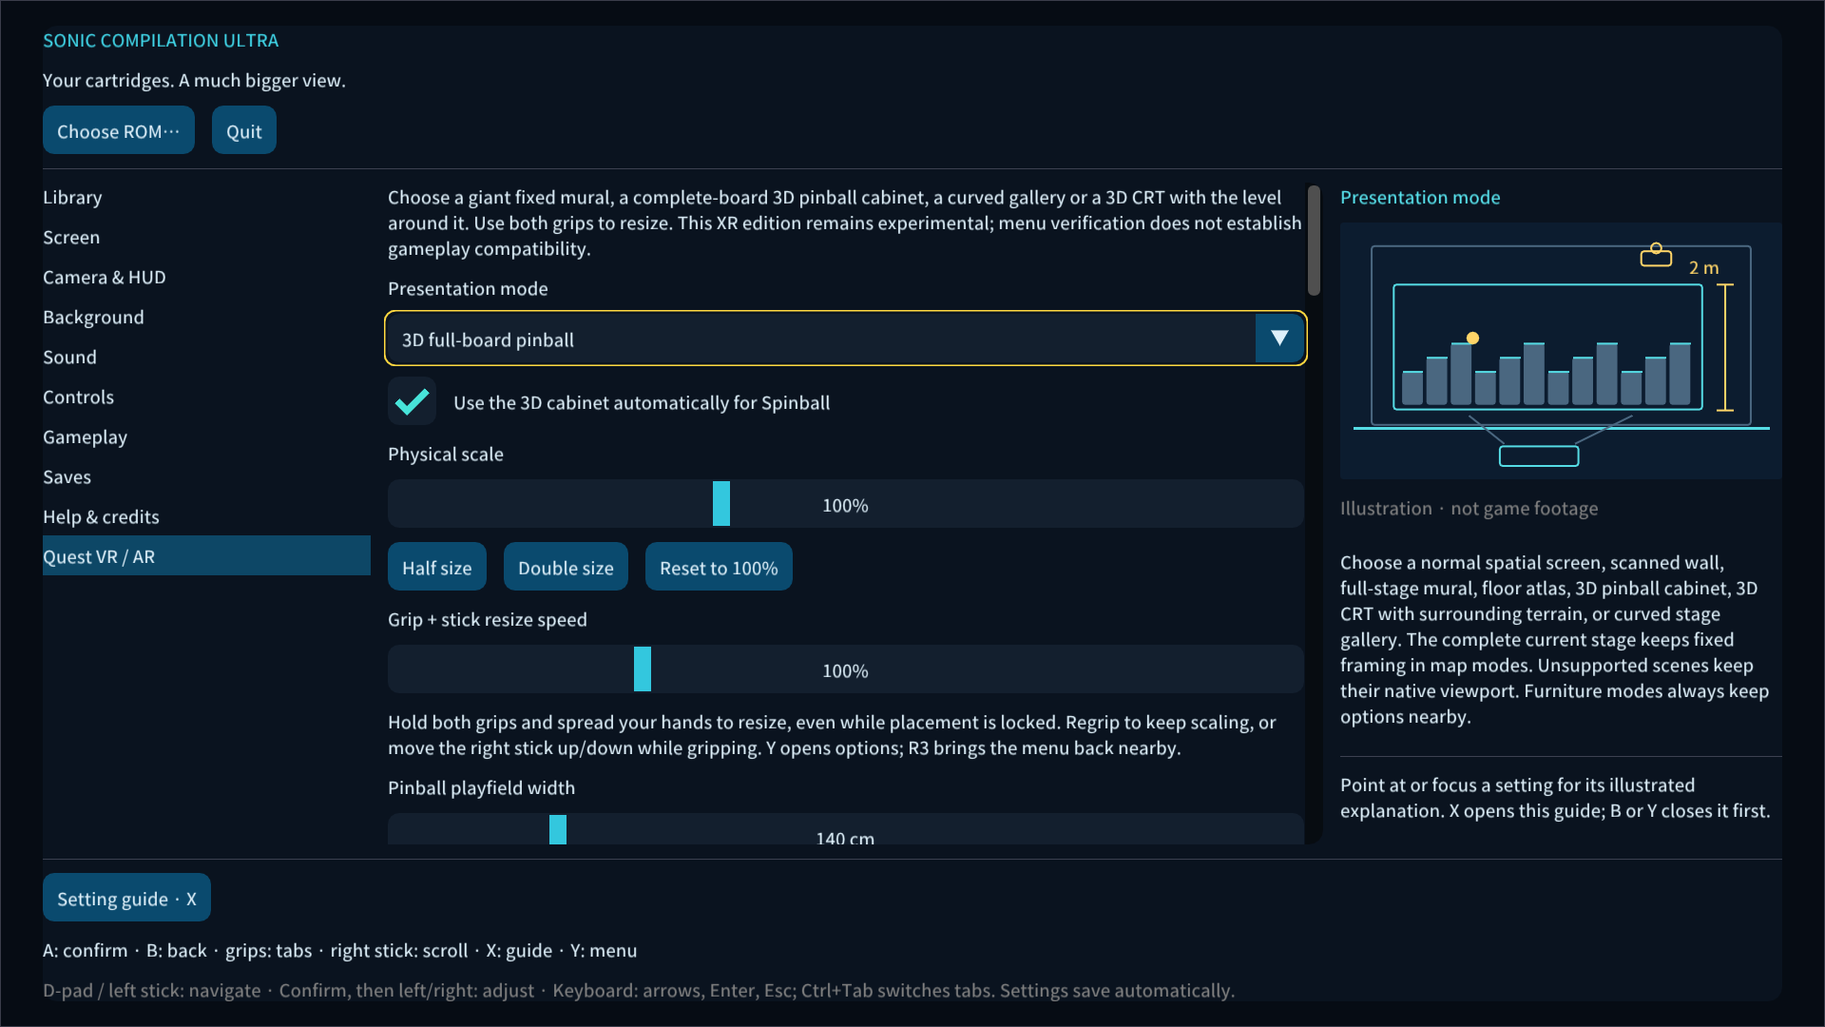
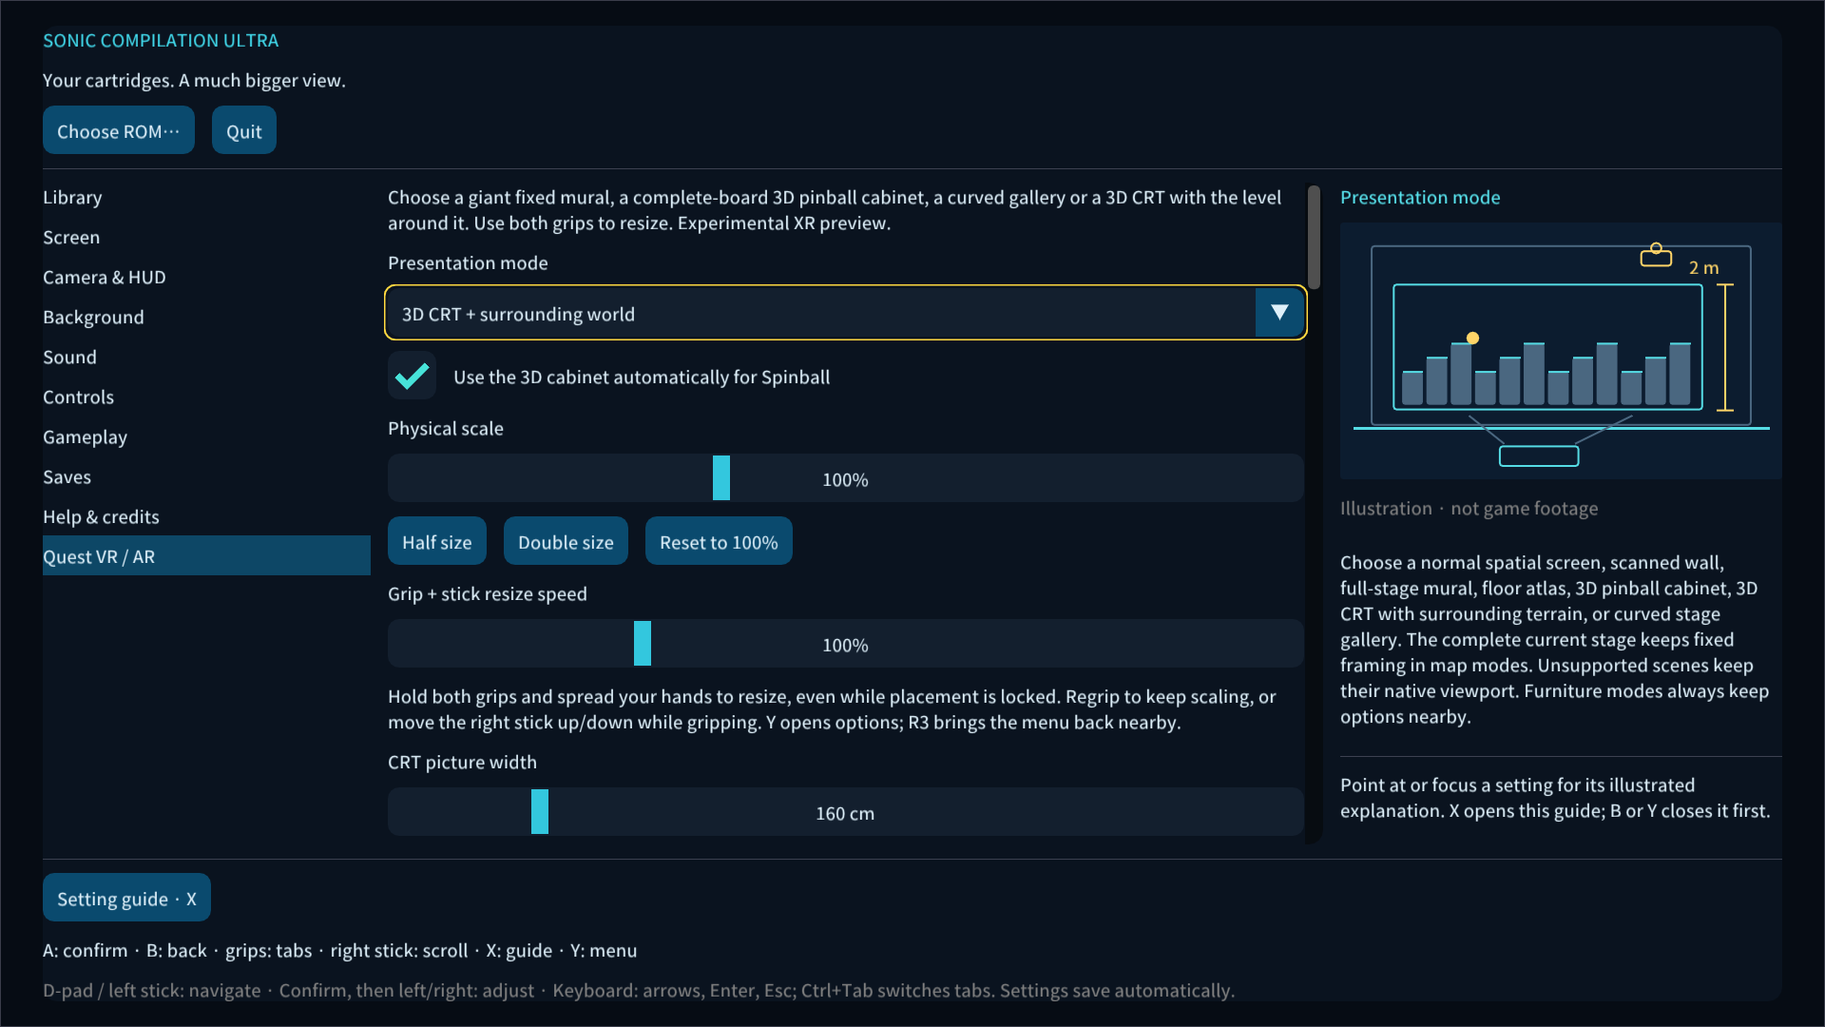
Extend VR backdrop and keep mode controls focused

diff --git a/src/xr_stage.cpp b/src/xr_stage.cpp
@@ -264,6 +264,10 @@ void main(){
    c+=vec3(.015,.025,.04)*pow(1.0-facing,3.0)*glassStrength;
   }
   if(kind==3)c*=surroundBrightness;
+ }else if(kind==6){
+  vec2 uv=vec2(fract(texcoord.x*4.0),texcoord.y);
+  float fade=smoothstep(0.0,.28,uv.y)*smoothstep(0.0,.28,1.0-uv.y);
+  c=mix(vec3(.008,.013,.025),displayColor(uv)*surroundBrightness,fade);
  }else if(kind==4){
   float fresnel=pow(1.0-facing,4.0);c=vec3(.2,.47,.65);a=glassStrength*(.015+.14*fresnel);
  }else if(kind==5){
@@ -335,11 +339,12 @@ struct XrStageRenderer::Impl {
     std::array<Eye, 2> eyes{};
     std::array<XrCompositionLayerProjectionView, 2> projectionViews{};
     XrCompositionLayerProjection layer{XR_TYPE_COMPOSITION_LAYER_PROJECTION};
-    GLuint program = 0, framebuffer = 0, nativeTexture = 0, demoTexture = 0;
+    GLuint program = 0, framebuffer = 0, nativeTexture = 0, demoTexture = 0, backdropTexture = 0;
     int nativeW = 0, nativeH = 0;
-    uint64_t nativeVersion = ~uint64_t(0), frameCount = 0, meshHash = 0;
+    uint64_t nativeVersion = ~uint64_t(0), backdropVersion = ~uint64_t(0), frameCount = 0,
+             meshHash = 0;
     bool srgb = false;
-    Mesh furniture, screen, glass, plain;
+    Mesh furniture, screen, glass, plain, surroundings;
     Matrix screenLocal = Matrix::identity(), glassLocal = Matrix::identity();
     int vp = -1, model = -1, kind = -1, eyePosition = -1;
     void initialise(XrInstance instance, XrSystemId system, XrSession xrSession) {
@@ -416,6 +421,22 @@ struct XrStageRenderer::Impl {
         quad(q, Matrix::identity(), {-.5f, -.5f, 0}, {.5f, -.5f, 0}, {.5f, .5f, 0}, {-.5f, .5f, 0},
              {0, 0, 1}, white);
         plain.upload(q);
+        Vertices panorama;
+        for (int i = 0; i < 64; ++i) {
+            float u = i / 64.f, v = (i + 1) / 64.f;
+            auto pt = [](float t, float y) {
+                return V3{std::sin(t * 2 * pi), y, std::cos(t * 2 * pi)};
+            };
+            size_t start = panorama.size();
+            quad(panorama, Matrix::identity(), pt(u, -1), pt(v, -1), pt(v, 1), pt(u, 1), {0, 0, 1},
+                 white);
+            const float coords[6][2]{{u, 1}, {v, 1}, {v, 0}, {u, 1}, {v, 0}, {u, 0}};
+            for (int j = 0; j < 6; ++j) {
+                panorama[start + j].u = coords[j][0];
+                panorama[start + j].v = coords[j][1];
+            }
+        }
+        surroundings.upload(panorama);
         std::vector<uint32_t> demo(512 * 512);
         for (int y = 0; y < 512; ++y)
             for (int x = 0; x < 512; ++x) {
@@ -471,10 +492,30 @@ struct XrStageRenderer::Impl {
         }
         return nativeTexture;
     }
+    GLuint backdrop(const XrStageContent &c) {
+        if (!c.loaded || !c.backdrop)
+            return demoTexture;
+        if (!backdropTexture)
+            glGenTextures(1, &backdropTexture);
+        glBindTexture(GL_TEXTURE_2D, backdropTexture);
+        if (backdropVersion != c.version) {
+            std::vector<uint32_t> rgba(c.backdrop->size());
+            for (size_t i = 0; i < rgba.size(); ++i) {
+                uint32_t p = (*c.backdrop)[i];
+                rgba[i] = (p & 0xff00ff00) | ((p >> 16) & 255) | ((p & 255) << 16);
+            }
+            glTexImage2D(GL_TEXTURE_2D, 0, GL_RGBA8, 320, 224, 0, GL_RGBA, GL_UNSIGNED_BYTE,
+                         rgba.data());
+            textureParameters();
+            backdropVersion = c.version;
+        }
+        return backdropTexture;
+    }
     void geometry(const Settings &s, int mode, float ratio, int nw, int nh) {
         uint64_t hash = 1469598103934665603ull;
-        for (int v : {mode, int(ratio * 10000), nw, nh, s.questCabinetWidth, s.questCabinetHeight,
-                      s.questCabinetTilt, s.questTvWidth, s.questCrtCurve, s.questCurve}) {
+        for (int v :
+             {mode, int(ratio * 10000), nw, nh, s.questCabinetWidth, s.questCabinetHeight,
+              s.questCabinetTilt, s.questTvWidth, s.questCrtCurve, s.questCurve, int(s.help)}) {
             hash ^= uint32_t(v);
             hash *= 1099511628211ull;
         }
@@ -590,6 +631,15 @@ struct XrStageRenderer::Impl {
             quad(p, Matrix::identity(), {-.5f, -.5f, 0}, {.5f, -.5f, 0}, {.5f, .5f, 0},
                  {-.5f, .5f, 0}, {0, 0, 1}, white);
         }
+        if (mode == 6 && s.help) {
+            float w = s.questWallHeight * .01f * ratio, angle = s.questCurve * pi / 180,
+                  radius = w / angle;
+            XrPosef badge{{0, -std::sin(angle / 4), 0, std::cos(angle / 4)},
+                          {std::sin(angle / 2) * radius, .06f, radius * (1 - std::cos(angle / 2))}};
+            auto m = poseMatrix(badge);
+            box(f, {-.24f, .055f, .006f}, {.56f, .13f, .01f}, ink, .8f, m);
+            legend(f, m, {-.46f, .022f, .013f}, .009f, "Y MENU");
+        }
         furniture.upload(f);
         screen.upload(p);
         glass.upload(g);
@@ -642,6 +692,8 @@ struct XrStageRenderer::Impl {
         glUniform1i(glGetUniformLocation(program, "srgbTarget"), srgb);
         glUniform1i(glGetUniformLocation(program, "flipImage"), s.questFlip);
         GLuint nativeImage = native(content), expanded = demoTexture;
+        GLuint backdropImage =
+            !ar && mode == 5 && s.questWorldBackdrop ? backdrop(content) : demoTexture;
         bool bound = false;
         if (content.expanded) {
             float w = 0, h = 0;
@@ -682,6 +734,14 @@ struct XrStageRenderer::Impl {
             glUniformMatrix4fv(vp, 1, GL_FALSE, vpMatrix.v);
             glUniform3f(eyePosition, views[i].pose.position.x, views[i].pose.position.y,
                         views[i].pose.position.z);
+            if (!ar && mode == 5 && s.questWorldBackdrop && content.loaded) {
+                glDepthMask(GL_FALSE);
+                XrPosef backdropPose{origin.orientation, views[i].pose.position};
+                draw(surroundings,
+                     product(poseMatrix(backdropPose), placement({0, 0, 0}, {500, 300, 500})), 6,
+                     backdropImage);
+                glDepthMask(GL_TRUE);
+            }
             if (!ar && s.questEnvironment) {
                 auto ground =
                     product(poseMatrix(origin), placement({0, -.01f, 0}, {1000, 1000, 1}, -pi / 2));
@@ -776,6 +836,7 @@ struct XrStageRenderer::Impl {
         screen.clear();
         glass.clear();
         plain.clear();
+        surroundings.clear();
         if (program)
             glDeleteProgram(program);
         if (framebuffer)
@@ -784,6 +845,8 @@ struct XrStageRenderer::Impl {
             glDeleteTextures(1, &nativeTexture);
         if (demoTexture)
             glDeleteTextures(1, &demoTexture);
+        if (backdropTexture)
+            glDeleteTextures(1, &backdropTexture);
         for (auto &e : eyes) {
             if (e.depth)
                 glDeleteRenderbuffers(1, &e.depth);

diff --git a/src/setting_help.cpp b/src/setting_help.cpp
@@ -9,6 +9,19 @@ namespace scu {
         }                                                                                          \
     }
 static const SettingHelp entries[] = {
+    H("questworldbackdrop", Background,
+      "Surround the VR CRT with a distant, repeated panorama made from the game's own backdrop. "
+      "Your background style, blur and brightness choices still apply. The expanded stage stays "
+      "aligned with the TV in front of this scenery. AR keeps your real room visible instead.",
+      "Entoure le CRT en VR d’un panorama lointain répété, issu du décor du jeu. Les choix de "
+      "fond, flou et luminosité s’appliquent toujours. Le niveau étendu reste aligné sur le "
+      "téléviseur devant ce décor. En AR, ta pièce réelle reste visible.",
+      "Rodea el CRT en RV con un panorama lejano repetido del fondo del juego. Se mantienen "
+      "estilo, desenfoque y brillo. El nivel ampliado sigue alineado con el TV delante del fondo. "
+      "En RA se conserva tu habitación real.",
+      "ゲームの背景を繰り返した遠景でVRのブラウン管を囲みます。背景の種類、ぼかし、明るさの設定も反"
+      "映します。拡張ステージは遠景の手前でテレビと位置を合わせます。ARでは実際の部屋を表示します"
+      "。"),
     H("desktoppresentation", Crt,
       "Choose the ordinary canvas, a whole-board pinball cabinet frame, or a CRT with the expanded "
       "level behind it. Desktop frames use portable 2D geometry on SDL renderers; the Quest "
@@ -143,10 +156,21 @@ static const SettingHelp entries[] = {
       "立体モードで暗い空間か静かな手続き型スタジオの床を選びます。パススルーはスタジオを実際の部屋"
       "に置き換えます。アプリはカメラ映像を取得・録画しません。"),
     H("questmode", Wall,
-      "Choose a normal spatial screen, scanned wall, full-stage mural, floor atlas, 3D pinball cabinet, 3D CRT with surrounding terrain, or curved stage gallery. The complete current stage keeps fixed framing in map modes. Unsupported scenes keep their native viewport. Furniture modes always keep options nearby.",
-      "Choisis écran spatial, mur scanné, mural complet, atlas au sol, flipper 3D, CRT 3D avec terrain autour ou galerie incurvée. Le niveau actuel entier reste fixe dans les modes carte. Les scènes non compatibles gardent leur vue native. Le mobilier garde toujours les options à proximité.",
-      "Elige pantalla espacial, pared capturada, mural completo, atlas de suelo, pinball 3D, CRT 3D con terreno alrededor o galería curva. El nivel completo mantiene encuadre fijo en modos mapa. Las escenas no compatibles usan su vista nativa. Los muebles mantienen las opciones cerca.",
-      "空間スクリーン、スキャンした壁、全ステージ壁画、床の地図、3Dピンボール筐体、周囲に地形を表示する3Dブラウン管、湾曲ギャラリーを選びます。地図モードは全ステージを固定表示。未対応場面は元の画面を使い、家具モードの設定は常に近くに表示します。"),
+      "Choose a normal spatial screen, scanned wall, full-stage mural, floor atlas, 3D pinball "
+      "cabinet, 3D CRT with surrounding terrain, or curved stage gallery. The complete current "
+      "stage keeps fixed framing in map modes. Unsupported scenes keep their native viewport. "
+      "Furniture modes always keep options nearby.",
+      "Choisis écran spatial, mur scanné, mural complet, atlas au sol, flipper 3D, CRT 3D avec "
+      "terrain autour ou galerie incurvée. Le niveau actuel entier reste fixe dans les modes "
+      "carte. Les scènes non compatibles gardent leur vue native. Le mobilier garde toujours les "
+      "options à proximité.",
+      "Elige pantalla espacial, pared capturada, mural completo, atlas de suelo, pinball 3D, CRT "
+      "3D con terreno alrededor o galería curva. El nivel completo mantiene encuadre fijo en modos "
+      "mapa. Las escenas no compatibles usan su vista nativa. Los muebles mantienen las opciones "
+      "cerca.",
+      "空間スクリーン、スキャンした壁、全ステージ壁画、床の地図、3Dピンボール筐体、周囲に地形を表示"
+      "する3Dブラウン管、湾曲ギャラリーを選びます。地図モードは全ステージを固定表示。未対応場面は元"
+      "の画面を使い、家具モードの設定は常に近くに表示します。"),
     H("questwallheight", Wall,
       "Default 200 cm: the mural rises two metres from the floor. Width follows the stage aspect "
       "ratio. Wall-fit mode caps height to the available wall. On a floor atlas this sets its "

diff --git a/src/localization.cpp b/src/localization.cpp
@@ -13,6 +13,9 @@ struct Text {
         }                                                                                          \
     }
 static const Text texts[] = {
+    T("questworldbackdrop", "Wrap the game's backdrop around the VR room",
+      "Étendre le décor sur 360° en VR", "Fondo del juego a 360° en RV",
+      "VRの周囲360度に背景を表示"),
     T("desktoppresentation", "Desktop frame", "Cadre sur PC", "Marco de escritorio",
       "デスクトップのフレーム"),
     T("desktopplain", "Full canvas", "Canevas entier", "Lienzo completo", "キャンバス全体"),
@@ -274,16 +277,13 @@ static const Text texts[] = {
     T("questtrigger", "left trigger", "gâchette gauche", "gatillo izquierdo", "左トリガー"),
     T("questintro",
       "Choose a giant fixed mural, a complete-board 3D pinball cabinet, a curved gallery or a 3D "
-      "CRT with the level around it. Use both grips to resize. This XR edition remains "
-      "experimental; menu verification does not establish gameplay compatibility.",
+      "CRT with the level around it. Use both grips to resize. Experimental XR preview.",
       "Choisis un mural géant fixe, un flipper 3D avec plateau entier, une galerie incurvée ou un "
-      "CRT 3D entouré du niveau. Les deux prises redimensionnent. Cette édition XR reste "
-      "expérimentale ; la vérification du menu ne valide pas le gameplay.",
+      "CRT 3D entouré du niveau. Les deux prises redimensionnent. Aperçu XR expérimental.",
       "Elige mural gigante fijo, pinball 3D completo, galería curva o CRT 3D rodeado del nivel. "
-      "Ambos agarres cambian el tamaño. Esta edición XR sigue siendo experimental; comprobar menús "
-      "no valida la jugabilidad.",
+      "Ambos agarres cambian el tamaño. Vista previa XR experimental.",
       "固定された巨大壁画、全盤面3Dピンボール、湾曲ギャラリー、ステージに囲まれた3Dブラウン管を選べ"
-      "ます。両グリップで拡縮。このXR版は実験版で、メニュー確認はゲーム動作の検証ではありません。"),
+      "ます。両グリップで拡縮。実験的なXRプレビュー版です。"),
     T("questar", "Passthrough AR · see the room", "AR avec passthrough · voir la pièce",
       "RA con passthrough · ver la habitación", "パススルーAR · 部屋を表示"),
     T("questarunavailable", "Passthrough is unavailable in this session. VR remains available.",

diff --git a/src/quest.cpp b/src/quest.cpp
@@ -1323,10 +1323,13 @@ struct QuestPresentation::Impl {
                                    ? gameScreen.canvas
                                    : nullptr;
             content.native = &app.core.native;
+            content.backdrop = &app.core.world.backdrop;
             content.nativeWidth = app.core.nativeW;
             content.nativeHeight = app.core.nativeH;
             content.version = app.core.imageVersion;
             content.scene = app.core.world.inspect(app.core.snapshot, app.core.game);
+            if (mode() == 4 && !content.scene.ready)
+                content.expanded = nullptr;
             auto &canvas = app.core.world.canvas;
             content.left = canvas.left;
             content.top = canvas.top;
@@ -1605,7 +1608,7 @@ void QuestPresentation::options() {
     }
     changed |= a.slider("questresizespeed", s.questResizeSpeed, 25, 300, "%d%%");
     ImGui::TextWrapped("%s", tr("questresizehint", a.language));
-    if (impl->mode() == 4 || s.questSpinballAuto) {
+    if (impl->mode() == 4) {
         changed |= a.slider("questcabinetwidth", s.questCabinetWidth, 40, 600, "%d cm");
         changed |= a.slider("questcabinetheight", s.questCabinetHeight, 30, 160, "%d cm");
         changed |= a.slider("questcabinettilt", s.questCabinetTilt, 0, 40, "%d°");
@@ -1621,6 +1624,7 @@ void QuestPresentation::options() {
         changed |= a.slider("questcrtstrength", s.questCrtStrength, 0, 100, "%d%%");
         changed |= a.slider("questcrtcurve", s.questCrtCurve, 0, 100, "%d%%");
         changed |= a.tick("questsurround", s.questSurround);
+        changed |= a.tick("questworldbackdrop", s.questWorldBackdrop);
         changed |= a.slider("questsurroundbrightness", s.questSurroundBrightness, 0, 100, "%d%%");
     }
     if (impl->mode() == 6)

diff --git a/src/settings.cpp b/src/settings.cpp
@@ -41,7 +41,7 @@ namespace scu {
                                                                         X(rewindButton, 0, 2)      \
                                                                             X(rewindMemory, 0, 2)
 #define BOOL_FIELDS(X)                                                                             \
-    X(desktopSurround) X(desktopCrtMask) X(questAutoWall)                                           \
+    X(questWorldBackdrop) X(desktopSurround) X(desktopCrtMask) X(questAutoWall)                     \
     X(questSpinballAuto) X(questSurround) X(questWallLocked) X(questAdaptive) X(questPauseLost)    \
         X(questCompanion) X(questPassthrough) X(questTouch) X(questFlip) X(fullscreen) X(span)     \
             X(vsync) X(parallax) X(locator) X(minimap) X(help) X(spindash) X(noSpriteLimit)        \

diff --git a/src/settings.h b/src/settings.h
@@ -26,7 +26,7 @@ struct Settings {
     int desktopPresentation = 0, desktopFrameScale = 100, desktopCrtStrength = 40,
         desktopCabinetAngle = 35;
     bool desktopSurround = true, desktopCrtMask = true;
-    bool questSpinballAuto = true, questSurround = true;
+    bool questSpinballAuto = true, questSurround = true, questWorldBackdrop = true;
     bool questAutoWall = true, questWallLocked = true, questAdaptive = true;
     bool questPauseLost = true, questCompanion = true;
     // Per-frame projection bounds, deliberately excluded from saved preferences.

diff --git a/src/xr_stage.h b/src/xr_stage.h
@@ -11,6 +11,7 @@ namespace scu {
 struct XrStageContent {
     SDL_Texture *expanded = nullptr;
     const std::vector<uint32_t> *native = nullptr;
+    const std::array<uint32_t, 320 * 224> *backdrop = nullptr;
     int nativeWidth = 320, nativeHeight = 224;
     uint64_t version = 0;
     bool loaded = false;

diff --git a/docs/TEST_REPORT.md b/docs/TEST_REPORT.md
@@ -4,7 +4,7 @@ This report separates successful checks from coverage that has not been measured
 
 ## 0.6 XR preview — physical frontend checks, no gameplay
 
-- On a USB-connected Quest 3, the library/options and original-pattern pinball/CRT/curved previews reach native SDL/OpenXR startup and submit stereo projection plus an independent menu quad. Actual eye-buffer and options captures were visually inspected. The earlier partial-UI cleanup crash, window-placement failure and black menu transfer were reproduced from evidence and repaired.
+- On a USB-connected Quest 3, the library/options and original-pattern pinball/CRT/curved previews reach native SDL/OpenXR startup and submit stereo projection plus an independent menu quad. Actual eye-buffer and options captures were visually inspected. The earlier partial-UI cleanup crash, window-placement failure and black menu transfer were identified in logs/captures and repaired.
 - Menu verification locks `Core::load`. Diagnostic frames record `coreLoaded=0` and `coreFrame=0`; cartridge file checks report **12 entries, 12 readable, cartridgeExecution=0**. Those checks decode/check files, not game instructions. No ROM was launched or played.
 - The runtime reports a **120 Hz display target** with maximum refresh selected. Short empty-preview observations include startup/capture stalls; they do not establish sustained 120 FPS, gameplay performance, thermal behavior or battery life.
 - Android compilation, lint and static signature/dependency/manifest/data-boundary inspection apply to both ordinary and personal APKs. The ordinary APK/source package exclude ROMs and private data. The local personal APK is not uploaded.

diff --git a/docs/QUEST.md b/docs/QUEST.md
@@ -49,7 +49,7 @@ Spinball uses its existing four-board cartridge terrain decoder; the 3D cabinet 
 
 **Placement locking does not prevent resizing.** The physical scale slider spans 5–20,000%, with half/double/reset buttons. Physical size is independent of texture allocation. Wall-fit mode remains bounded by its wall; use Mural for unrestricted expansion. Options keep their own readable size, and R3 brings them near you. The Meta button keeps its system function.
 
-Pinball width, front height, slope and glass reflections are adjustable. CRT choices include clean, living-room and arcade presets, effect strength, phosphor mask, real tube curvature, picture width, surrounding terrain and its brightness. Choose a quiet studio floor or dark void in VR, or passthrough AR for your room. Cinema, tabletop, head-follow, cabinet and curved-gallery presets are available.
+Pinball width, front height, slope and glass reflections are adjustable. CRT choices include clean, living-room and arcade presets, effect strength, phosphor mask, real tube curvature, picture width, surrounding terrain and its brightness. An optional 360° panorama repeats the game's own backdrop around the VR room; background style/blur settings still apply. Choose a quiet studio floor or dark void in VR, or passthrough AR for your room. Cinema, tabletop, head-follow, cabinet and curved-gallery presets are available.
 
 A Bluetooth gamepad can use the existing controller menus. Disable **Use Quest Touch controls** to assign that pad to player one; menu pointing and Y access remain available. Physical controller behavior still needs user validation.
 

diff --git a/CHANGELOG.md b/CHANGELOG.md
@@ -3,7 +3,7 @@
 ## 0.6.0 XR preview — Stereo furniture and startup repair
 
 - Repair partial UI shutdown, use app-owned internal storage with external-data migration, identify the app as immersive and preserve SDL graphics state around the full OpenXR frame sequence.
-- Add stereo 3D pinball cabinets, automatic complete-board Spinball presentation, curved CRT enclosures/shaders, aligned surrounding terrain and curved stage galleries.
+- Add stereo 3D pinball cabinets, automatic complete-board Spinball presentation, curved CRT enclosures/shaders, aligned surrounding terrain, a repeated 360° cartridge backdrop and curved stage galleries.
 - Separate resizing from placement locking. Add two-grip/stick resizing, 5–20,000% scale, half/double/reset, cabinet dimensions/slope/glass, CRT presets/mask/curvature and VR surroundings.
 - Add portable desktop cabinet/CRT frames and illustrated guides in four languages. Expand the renamed OFL font subset and load every translated glyph.
 - Verify Quest 3 library/options and original-pattern stereo previews with cartridge execution disabled at the core boundary; statically check all 12 personal cartridge entries. No gameplay was launched or tested.
